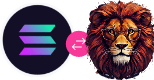
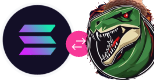
fg

diff --git a/index.htm b/index.htm
@@ -222,7 +222,7 @@ body{--wp--preset--color--black: #000000;--wp--preset--color--cyan-bluish-gray: 
 				<div class="elementor-element elementor-element-2a3bea2 elementor-widget elementor-widget-heading" data-id="2a3bea2" data-element_type="widget" data-widget_type="heading.default">
 				<div class="elementor-widget-container">
 			<style>/*! elementor - v3.20.0 - 13-03-2024 */
-.elementor-heading-title{padding:0;margin:0;line-height:1}.elementor-widget-heading .elementor-heading-title[class*=elementor-size-]>a{color:inherit;font-size:inherit;line-height:inherit}.elementor-widget-heading .elementor-heading-title.elementor-size-small{font-size:15px}.elementor-widget-heading .elementor-heading-title.elementor-size-medium{font-size:19px}.elementor-widget-heading .elementor-heading-title.elementor-size-large{font-size:29px}.elementor-widget-heading .elementor-heading-title.elementor-size-xl{font-size:39px}.elementor-widget-heading .elementor-heading-title.elementor-size-xxl{font-size:59px}</style><p class="elementor-heading-title elementor-size-default">The $LİON. The pinnacle of SOLANA coins, surpassing all predecessors. Let’s pave way 
+.elementor-heading-title{padding:0;margin:0;line-height:1}.elementor-widget-heading .elementor-heading-title[class*=elementor-size-]>a{color:inherit;font-size:inherit;line-height:inherit}.elementor-widget-heading .elementor-heading-title.elementor-size-small{font-size:15px}.elementor-widget-heading .elementor-heading-title.elementor-size-medium{font-size:19px}.elementor-widget-heading .elementor-heading-title.elementor-size-large{font-size:29px}.elementor-widget-heading .elementor-heading-title.elementor-size-xl{font-size:39px}.elementor-widget-heading .elementor-heading-title.elementor-size-xxl{font-size:59px}</style><p class="elementor-heading-title elementor-size-default">The $REXWH. The pinnacle of SOLANA coins, surpassing all predecessors. Let’s pave way 
 for its unrivaled greatness.</p>		</div>
 				</div>
 				</div>
@@ -246,7 +246,7 @@ for its unrivaled greatness.</p>		</div>
 				<div class="elementor-element elementor-element-190144b elementor-view-framed elementor-shape-circle elementor-widget elementor-widget-icon" data-id="190144b" data-element_type="widget" data-widget_type="icon.default">
 				<div class="elementor-widget-container">
 					<div class="elementor-icon-wrapper">
-			<a class="elementor-icon" href="https://t.me/" target="_blank">
+			<a class="elementor-icon" href="https://t.me/rexwifhatsol" target="_blank">
 			<svg aria-hidden="true" class="e-font-icon-svg e-fab-telegram" viewbox="0 0 496 512" xmlns="http://www.w3.org/2000/svg"><path d="M248 8C111 8 0 119 0 256s111 248 248 248 248-111 248-248S385 8 248 8zm121.8 169.9l-40.7 191.8c-3 13.6-11.1 16.9-22.4 10.5l-62-45.7-29.9 28.8c-3.3 3.3-6.1 6.1-12.5 6.1l4.4-63.1 114.9-103.8c5-4.4-1.1-6.9-7.7-2.5l-142 89.4-61.2-19.1c-13.3-4.2-13.6-13.3 2.8-19.7l239.1-92.2c11.1-4 20.8 2.7 17.2 19.5z"></path></svg>			</a>
 		</div>
 				</div>
@@ -309,7 +309,7 @@ for its unrivaled greatness.</p>		</div>
 				<div class="elementor-element elementor-element-c88d01d elementor-widget__width-initial elementor-widget-mobile__width-inherit elementor-widget elementor-widget-text-editor" data-id="c88d01d" data-element_type="widget" data-widget_type="text-editor.default">
 				<div class="elementor-widget-container">
 			<style>/*! elementor - v3.20.0 - 13-03-2024 */
-.elementor-widget-text-editor.elementor-drop-cap-view-stacked .elementor-drop-cap{background-color:#69727d;color:#fff}.elementor-widget-text-editor.elementor-drop-cap-view-framed .elementor-drop-cap{color:#69727d;border:3px solid;background-color:transparent}.elementor-widget-text-editor:not(.elementor-drop-cap-view-default) .elementor-drop-cap{margin-top:8px}.elementor-widget-text-editor:not(.elementor-drop-cap-view-default) .elementor-drop-cap-letter{width:1em;height:1em}.elementor-widget-text-editor .elementor-drop-cap{float:left;text-align:center;line-height:1;font-size:50px}.elementor-widget-text-editor .elementor-drop-cap-letter{display:inline-block}</style>				<p>The $LİON—embedded in its name is the promise of greatness. As it emerges within the SOLANA ecosystem, it stands as the epitome of excellence. Let’s set aside lesser coins and make space for the undeniable champion of all time.</p>						</div>
+.elementor-widget-text-editor.elementor-drop-cap-view-stacked .elementor-drop-cap{background-color:#69727d;color:#fff}.elementor-widget-text-editor.elementor-drop-cap-view-framed .elementor-drop-cap{color:#69727d;border:3px solid;background-color:transparent}.elementor-widget-text-editor:not(.elementor-drop-cap-view-default) .elementor-drop-cap{margin-top:8px}.elementor-widget-text-editor:not(.elementor-drop-cap-view-default) .elementor-drop-cap-letter{width:1em;height:1em}.elementor-widget-text-editor .elementor-drop-cap{float:left;text-align:center;line-height:1;font-size:50px}.elementor-widget-text-editor .elementor-drop-cap-letter{display:inline-block}</style>				<p>The $REXWH—embedded in its name is the promise of greatness. As it emerges within the SOLANA ecosystem, it stands as the epitome of excellence. Let’s set aside lesser coins and make space for the undeniable champion of all time.</p>						</div>
 				</div>
 		<div class="elementor-element elementor-element-6e8887a e-flex e-con-boxed e-con e-child" data-id="6e8887a" data-element_type="container">
 					<div class="e-con-inner">
@@ -406,7 +406,7 @@ Solana</h6>		</div>
 				</div>
 				<div class="elementor-element elementor-element-47d442a elementor-widget elementor-widget-heading" data-id="47d442a" data-element_type="widget" data-widget_type="heading.default">
 				<div class="elementor-widget-container">
-			<p class="elementor-heading-title elementor-size-default">To trade for $LİON, first obtain Solana. Purchase Solana on major exchanges like Binance or Coinbase. Then, transfer Solana to your Phantom wallet.</p>		</div>
+			<p class="elementor-heading-title elementor-size-default">To trade for $REXWH, first obtain Solana. Purchase Solana on major exchanges like Binance or Coinbase. Then, transfer Solana to your Phantom wallet.</p>		</div>
 				</div>
 				<div class="elementor-element elementor-element-dee8fd0 elementor-widget elementor-widget-image" data-id="dee8fd0" data-element_type="widget" data-widget_type="image.default">
 				<div class="elementor-widget-container">
@@ -439,7 +439,7 @@ Solana</h6>		</div>
 				</div>
 				<div class="elementor-element elementor-element-ba289d9 elementor-widget elementor-widget-heading" data-id="ba289d9" data-element_type="widget" data-widget_type="heading.default">
 				<div class="elementor-widget-container">
-			<p class="elementor-heading-title elementor-size-default">Connect your wallet to <a href="http://raydium.io/" target="_blank"><u>raydium.io</u></a> by going to the <a href="http://raydium.io/" target="_blank"><u>raydium.io</u></a> website. In the swap tab you’ll be able to select solana and then paste the contract address of $LİON.</p>		</div>
+			<p class="elementor-heading-title elementor-size-default">Connect your wallet to <a href="http://raydium.io/" target="_blank"><u>raydium.io</u></a> by going to the <a href="http://raydium.io/" target="_blank"><u>raydium.io</u></a> website. In the swap tab you’ll be able to select solana and then paste the contract address of $REXWH.</p>		</div>
 				</div>
 				<div class="elementor-element elementor-element-631fe66 elementor-widget elementor-widget-image" data-id="631fe66" data-element_type="widget" data-widget_type="image.default">
 				<div class="elementor-widget-container">
@@ -468,7 +468,7 @@ Solana</h6>		</div>
 				<div class="elementor-element elementor-element-809059c elementor-widget elementor-widget-heading" data-id="809059c" data-element_type="widget" data-widget_type="heading.default">
 				<div class="elementor-widget-container">
 			<h6 class="elementor-heading-title elementor-size-default">Swap Solana<br>
-For $LİON</h6>		</div>
+For $REXWH</h6>		</div>
 				</div>
 				<div class="elementor-element elementor-element-5d9f254 elementor-widget__width-initial elementor-widget elementor-widget-heading" data-id="5d9f254" data-element_type="widget" data-widget_type="heading.default">
 				<div class="elementor-widget-container">
@@ -508,22 +508,22 @@ coin volatility,</p>		</div>
 							<li class="elementor-icon-list-item">
 											<span class="elementor-icon-list-icon">
 							<svg aria-hidden="true" class="e-font-icon-svg e-fas-circle" viewbox="0 0 512 512" xmlns="http://www.w3.org/2000/svg"><path d="M256 8C119 8 8 119 8 256s111 248 248 248 248-111 248-248S393 8 256 8z"></path></svg>						</span>
-										<span class="elementor-icon-list-text">75% Liquidity</span>
+										<span class="elementor-icon-list-text">1B SUPPLY</span>
 									</li>
 								<li class="elementor-icon-list-item">
 											<span class="elementor-icon-list-icon">
 							<svg aria-hidden="true" class="e-font-icon-svg e-fas-circle" viewbox="0 0 512 512" xmlns="http://www.w3.org/2000/svg"><path d="M256 8C119 8 8 119 8 256s111 248 248 248 248-111 248-248S393 8 256 8z"></path></svg>						</span>
-										<span class="elementor-icon-list-text">15% Marketing</span>
+										<span class="elementor-icon-list-text">BURN REVOKED</span>
 									</li>
 								<li class="elementor-icon-list-item">
 											<span class="elementor-icon-list-icon">
 							<svg aria-hidden="true" class="e-font-icon-svg e-fas-circle" viewbox="0 0 512 512" xmlns="http://www.w3.org/2000/svg"><path d="M256 8C119 8 8 119 8 256s111 248 248 248 248-111 248-248S393 8 256 8z"></path></svg>						</span>
-										<span class="elementor-icon-list-text">06% Team</span>
+										<span class="elementor-icon-list-text">STEALTH</span>
 									</li>
 								<li class="elementor-icon-list-item">
 											<span class="elementor-icon-list-icon">
 							<svg aria-hidden="true" class="e-font-icon-svg e-fas-circle" viewbox="0 0 512 512" xmlns="http://www.w3.org/2000/svg"><path d="M256 8C119 8 8 119 8 256s111 248 248 248 248-111 248-248S393 8 256 8z"></path></svg>						</span>
-										<span class="elementor-icon-list-text">04% Mod Drop</span>
+										<span class="elementor-icon-list-text">TREND AND DEX</span>
 									</li>
 						</ul>
 				</div>
@@ -566,7 +566,7 @@ coin volatility,</p>		</div>
 				<div class="elementor-element elementor-element-446b18e elementor-view-framed elementor-shape-circle elementor-widget elementor-widget-icon" data-id="446b18e" data-element_type="widget" data-widget_type="icon.default">
 				<div class="elementor-widget-container">
 					<div class="elementor-icon-wrapper">
-			<a class="elementor-icon" href="https://t.me/" target="_blank">
+			<a class="elementor-icon" href="https://t.me/rexwifhatsol" target="_blank">
 			<svg aria-hidden="true" class="e-font-icon-svg e-fab-telegram" viewbox="0 0 496 512" xmlns="http://www.w3.org/2000/svg"><path d="M248 8C111 8 0 119 0 256s111 248 248 248 248-111 248-248S385 8 248 8zm121.8 169.9l-40.7 191.8c-3 13.6-11.1 16.9-22.4 10.5l-62-45.7-29.9 28.8c-3.3 3.3-6.1 6.1-12.5 6.1l4.4-63.1 114.9-103.8c5-4.4-1.1-6.9-7.7-2.5l-142 89.4-61.2-19.1c-13.3-4.2-13.6-13.3 2.8-19.7l239.1-92.2c11.1-4 20.8 2.7 17.2 19.5z"></path></svg>			</a>
 		</div>
 				</div>
@@ -575,7 +575,7 @@ coin volatility,</p>		</div>
 				</div>
 				<div class="elementor-element elementor-element-46d9f93 elementor-widget__width-initial elementor-widget elementor-widget-text-editor" data-id="46d9f93" data-element_type="widget" data-widget_type="text-editor.default">
 				<div class="elementor-widget-container">
-							<p>$LİON coin is a meme coin with no intrinsic value or expectation of financial return. There is no formal team or roadmap. The coin is completely useless and for entertainment purposes only.</p>						</div>
+							<p>$REXWH coin is a meme coin with no intrinsic value or expectation of financial return. There is no formal team or roadmap. The coin is completely useless and for entertainment purposes only.</p>						</div>
 				</div>
 				</div>
 					</div>
@@ -584,7 +584,7 @@ coin volatility,</p>		</div>
 					<div class="e-con-inner">
 				<div class="elementor-element elementor-element-e3313a5 elementor-widget elementor-widget-heading" data-id="e3313a5" data-element_type="widget" data-widget_type="heading.default">
 				<div class="elementor-widget-container">
-			<p class="elementor-heading-title elementor-size-default">© 2024 by $LİON. All rights reserved!</p>		</div>
+			<p class="elementor-heading-title elementor-size-default">© 2024 by $REXWH. All rights reserved!</p>		</div>
 				</div>
 					</div>
 				</div>
